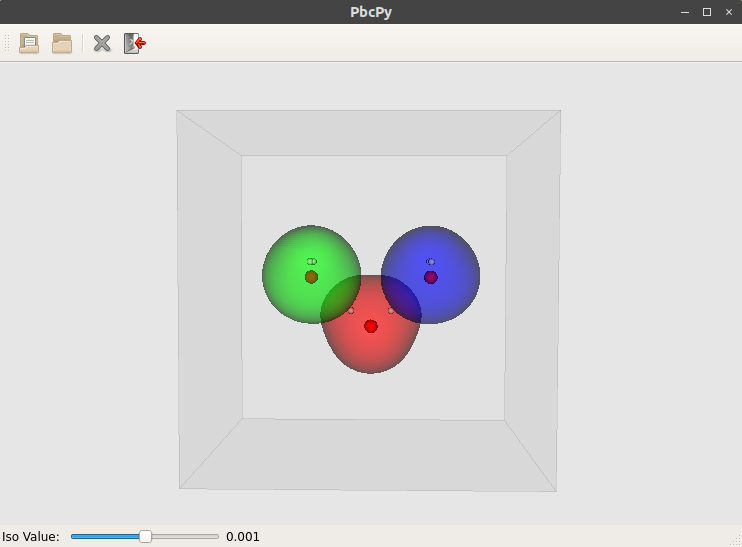
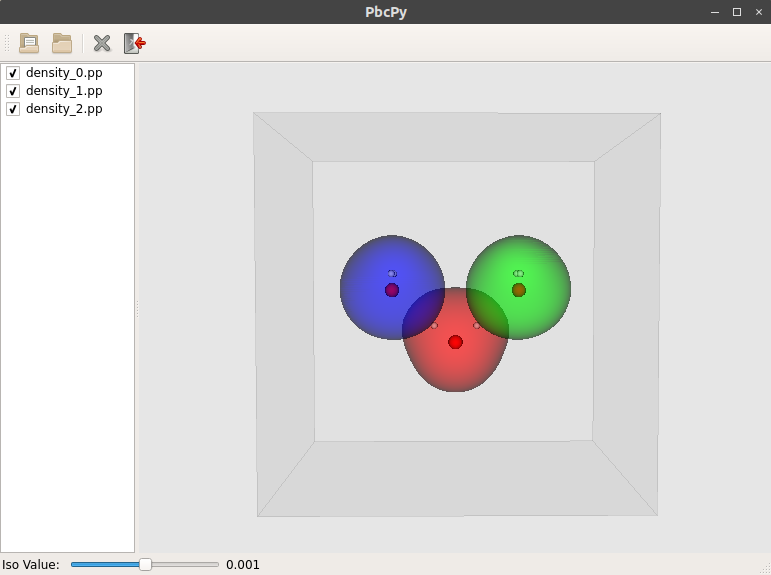
cleanup

Changed region(s): [[0.0, 0.0, 1.0, 0.9945], [0.341, 0.404, 0.7439, 0.6837], [0.9919, 0.9634, 1.0, 1.0]]

diff --git a/src/pbcpy_qt.py b/src/pbcpy_qt.py
@@ -11,8 +11,7 @@ from PyQt5.QtCore import Qt
 from PyQt5.QtGui import QIcon, QStandardItemModel, QStandardItem
 from PyQt5.QtWidgets import (QAction, QFileDialog, QLabel,
                             QApplication, QMainWindow, QSlider,
-                            QSplitter, QFrame, QListWidget,
-                            QListView)
+                            QSplitter, QFrame, QListView )
 
 
 import pbcpy_vtk
@@ -154,9 +153,9 @@ class PbcPyQt(QMainWindow):
     def initMainArea(self):
         self.splitter = QSplitter(Qt.Horizontal)
         self.initVtkArea()
-        self.initListWidget()
+        self.initListView()
         #topleft = QFrame(self)
-        self.splitter.addWidget(self.listWidget)
+        self.splitter.addWidget(self.listView)
         self.splitter.addWidget(self.vtkWidget)
         self.setCentralWidget(self.splitter)
 
@@ -171,17 +170,17 @@ class PbcPyQt(QMainWindow):
         self.iren.Initialize()
         self.iren.Start()
 
-    def initListWidget(self):
-        self.listWidget = QListView(self)
-        self.listWidget.setMaximumWidth(200)
-        self.listWidget.setSpacing(2)
-        self.listModel = QStandardItemModel(self.listWidget)
+    def initListView(self):
+        self.listView = QListView(self)
+        self.listView.setMaximumWidth(200)
+        self.listView.setSpacing(2)
+        self.listModel = QStandardItemModel(self.listView)
         self.listModel.itemChanged.connect(self.onItemChanged)
-        self.listWidget.setModel(self.listModel)
+        self.listView.setModel(self.listModel)
 
 
     def addListItem(self, subsystem):
-        #self.listWidget.addItem(subsystem.shortname)
+        #self.listView.addItem(subsystem.shortname)
         item = QStandardItem(subsystem.shortname)
         item.setCheckable(True)
         item.setCheckState(2)
